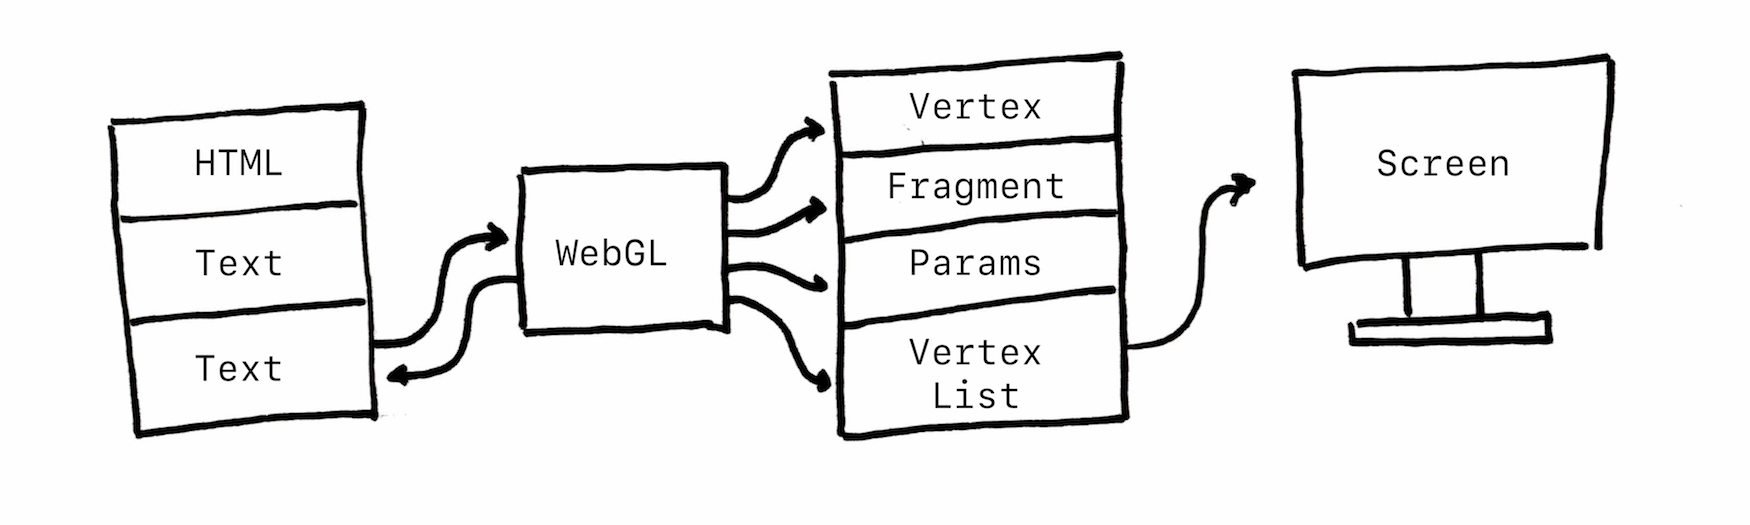
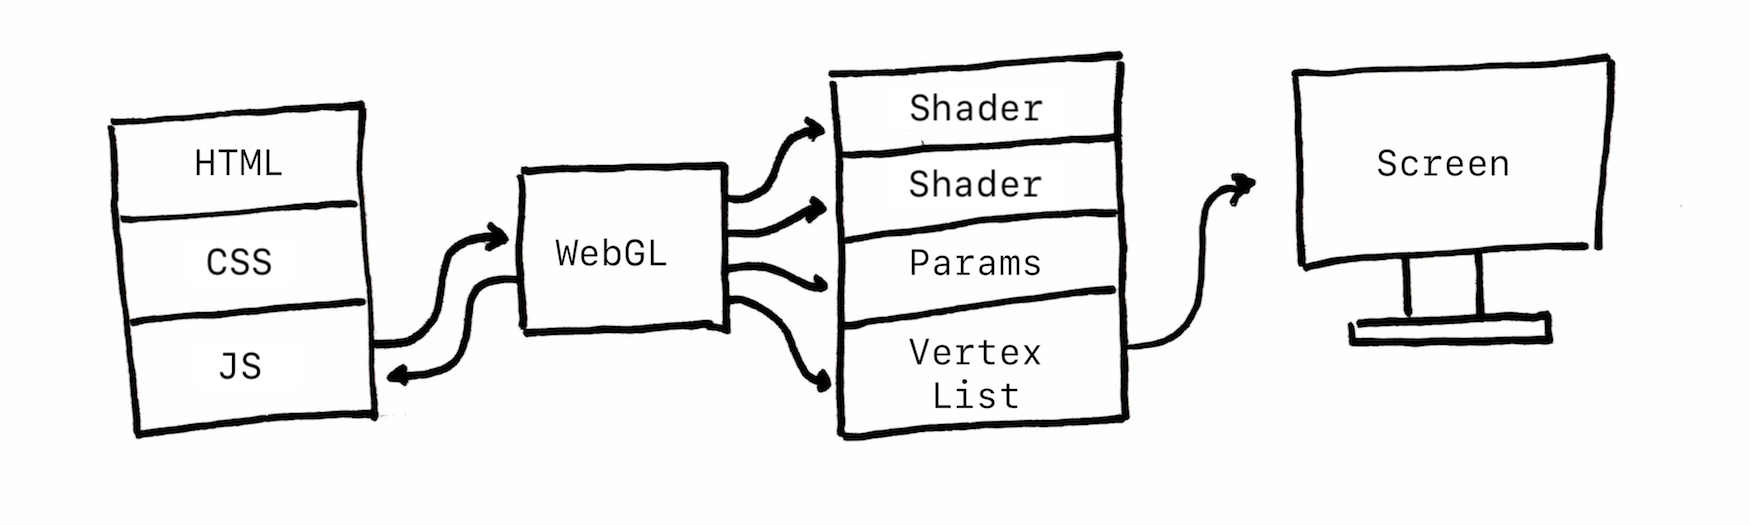
Fix missing text in diagram 2

diff --git a/index.html b/index.html
@@ -27,7 +27,7 @@
                 In most drawing libraries we draw one shape at a time. With shaders we go through every pixel on the screen and decide what color it should be.
             </p>
             <aside>
-                The GPU draws things by calculating the color for every pixel simultaneously. The shader itself is the function the GPU uses to perform the calculation. Shaders are typically written in a language called GLSL.
+                The GPU draws things by calculating the color for every pixel simultaneously, which makes it very fast. The shader itself is the function the GPU uses to perform the calculation. Shaders are typically written in a language called GLSL.
             </aside>
         </section>
         <section>
@@ -35,20 +35,20 @@
                 WebGL is the interface for the GPU.
             </h2>
             <aside>
-                WebGl and similar libraries like OpenGL are our interface with the GPU; it's how we can tell the GPU to run the shader programs that we wrote in GLSL. Some frameworks like <a href="https://threejs.org/">Three</a>, <a href="https://p5js.org">p5</a>, or <a href="http://www.pixijs.com/">Pixi</a> use WebGL under the hood and provide a more streamlined API.
+                WebGl and similar libraries like OpenGL are how we can tell the GPU to run the shader programs that we wrote in GLSL. Some frameworks like <a href="https://threejs.org/">Three</a>, <a href="https://p5js.org">p5</a>, or <a href="http://www.pixijs.com/">Pixi</a> use WebGL under the hood and provide a more streamlined API.
             </aside>
             <p>
                 WebGL can be tricky to use because it matches how the GPU works: it can't decide what to do next on its own.
             </p>
             <aside>
-                WebGL is notoriously difficult because its API closely matches how the GPU works. The GPU needs to have very strict constraints so it can run so fast. It also can't decide what to do next on its own, it must be told. This means that our program using the WebGL library needs to have a lot of configuration and boilerplate code to even get the GPU to start drawing.
+                The also needs to have very strict constraints so it can run so fast. This means that our program using the WebGL library needs to have a lot of configuration and boilerplate code to even get the GPU to start drawing.
             </aside>
             <img src="http://www.jonasluebbers.com/shader-tutorial/assets/diagram-2.jpg" alt="A diagram of WebGL interfacing with the GPU">
             <aside>
-                In this tutorial I want to demystify the process of getting a shader program running without a framework. Fortunately there are some very creative ways to use WebGL that aren't as easy if you happen to be using a wrapper.
+                In this tutorial I want to demystify the process of getting a shader program running from scratch. There are some very creative ways to use WebGL that aren't as easy if you happen to be using a framework.
             </aside>
             <p>
-                Drawing with WebGL and shaders is a fundamentally different technique from most drawing frameworks.
+                Drawing with WebGL and shaders is a fundamentally different technique from most drawing libraries.
             </p>
             <aside>
                 Regardless of whether you are using WebGL or not, shaders aren't just useful for their speed. They enable a less mechanical-looking way of drawing. We'll see some examples of that later.
@@ -88,13 +88,18 @@
                     </aside>
                 </li>
                 <li>
-                    It runs a vertex shader on each vertex of each triangle to position it on the screen.
+                    It runs a <em>vertex shader</em> on each vertex of each triangle to position it on the screen.
                 </li>
                 <li>
-                    It removes all triangles that are covered or off-screen.
+                    <p>
+                        It removes all triangles that are covered or off-screen.
+                    </p>
+                    <aside>
+                        This way we can avoid drawing anything that isn't visible.
+                    </aside>
                 </li>
                 <li>
-                    It runs a fragment shader on every pixel contained in each of the remaining triangles.
+                    It runs a <em>fragment shader</em> on every pixel contained in each of the remaining triangles.
                 </li>
             </ol>
             <img src="http://www.jonasluebbers.com/shader-tutorial/assets/diagram-4.jpg" alt="A diagram of the rasterization algorithm.">
@@ -108,10 +113,10 @@
                     A JavaScript program running in a browser. It initializes WebGL with programs 2 and 3.
                 </li>
                 <li>
-                    A <em>vertex shader</em>.
+                    A vertex shader.
                 </li>
                 <li>
-                    A <em>fragment shader</em>.
+                    A fragment shader.
                 </li>
             </ol>
         </section>
